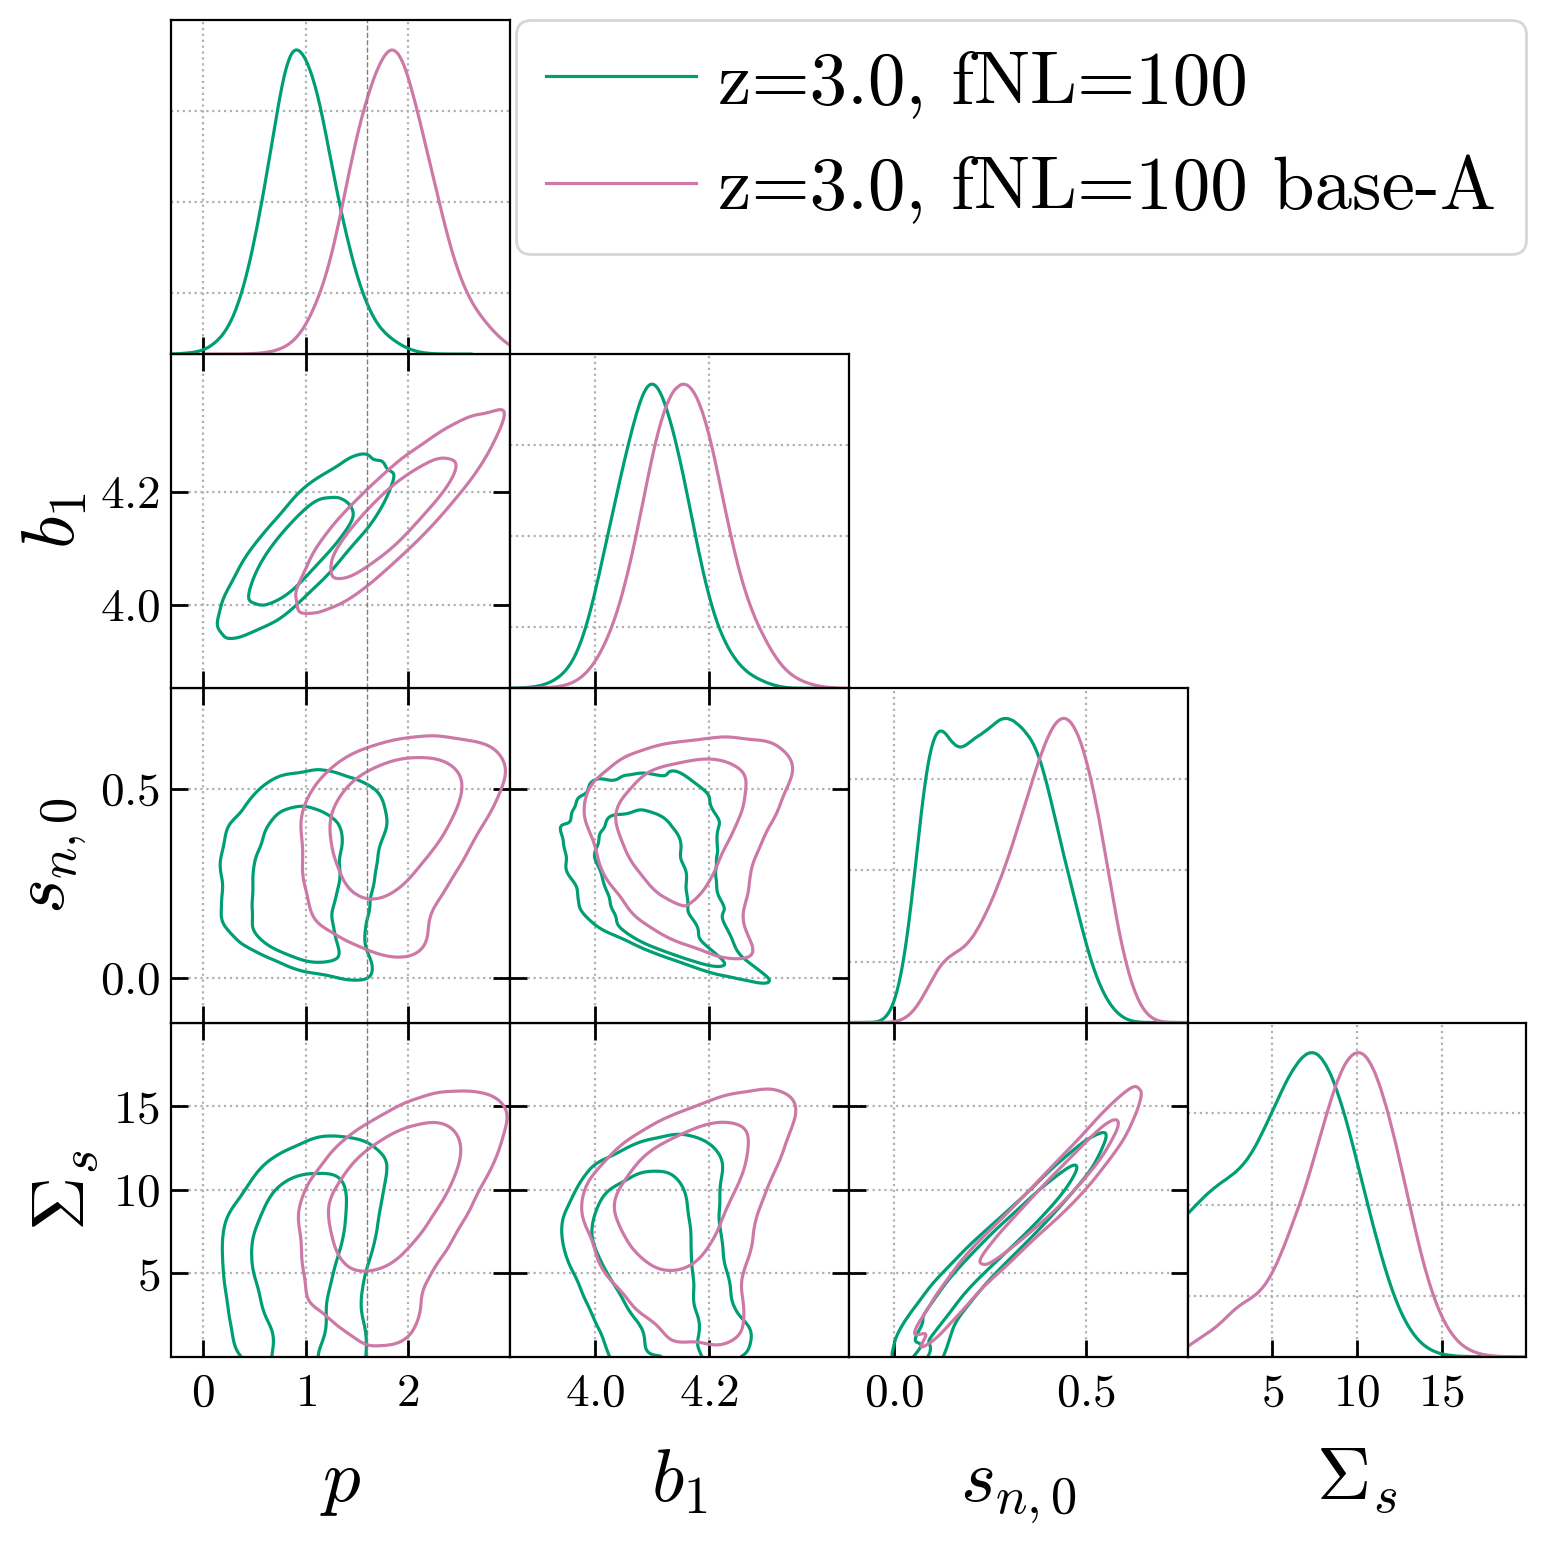
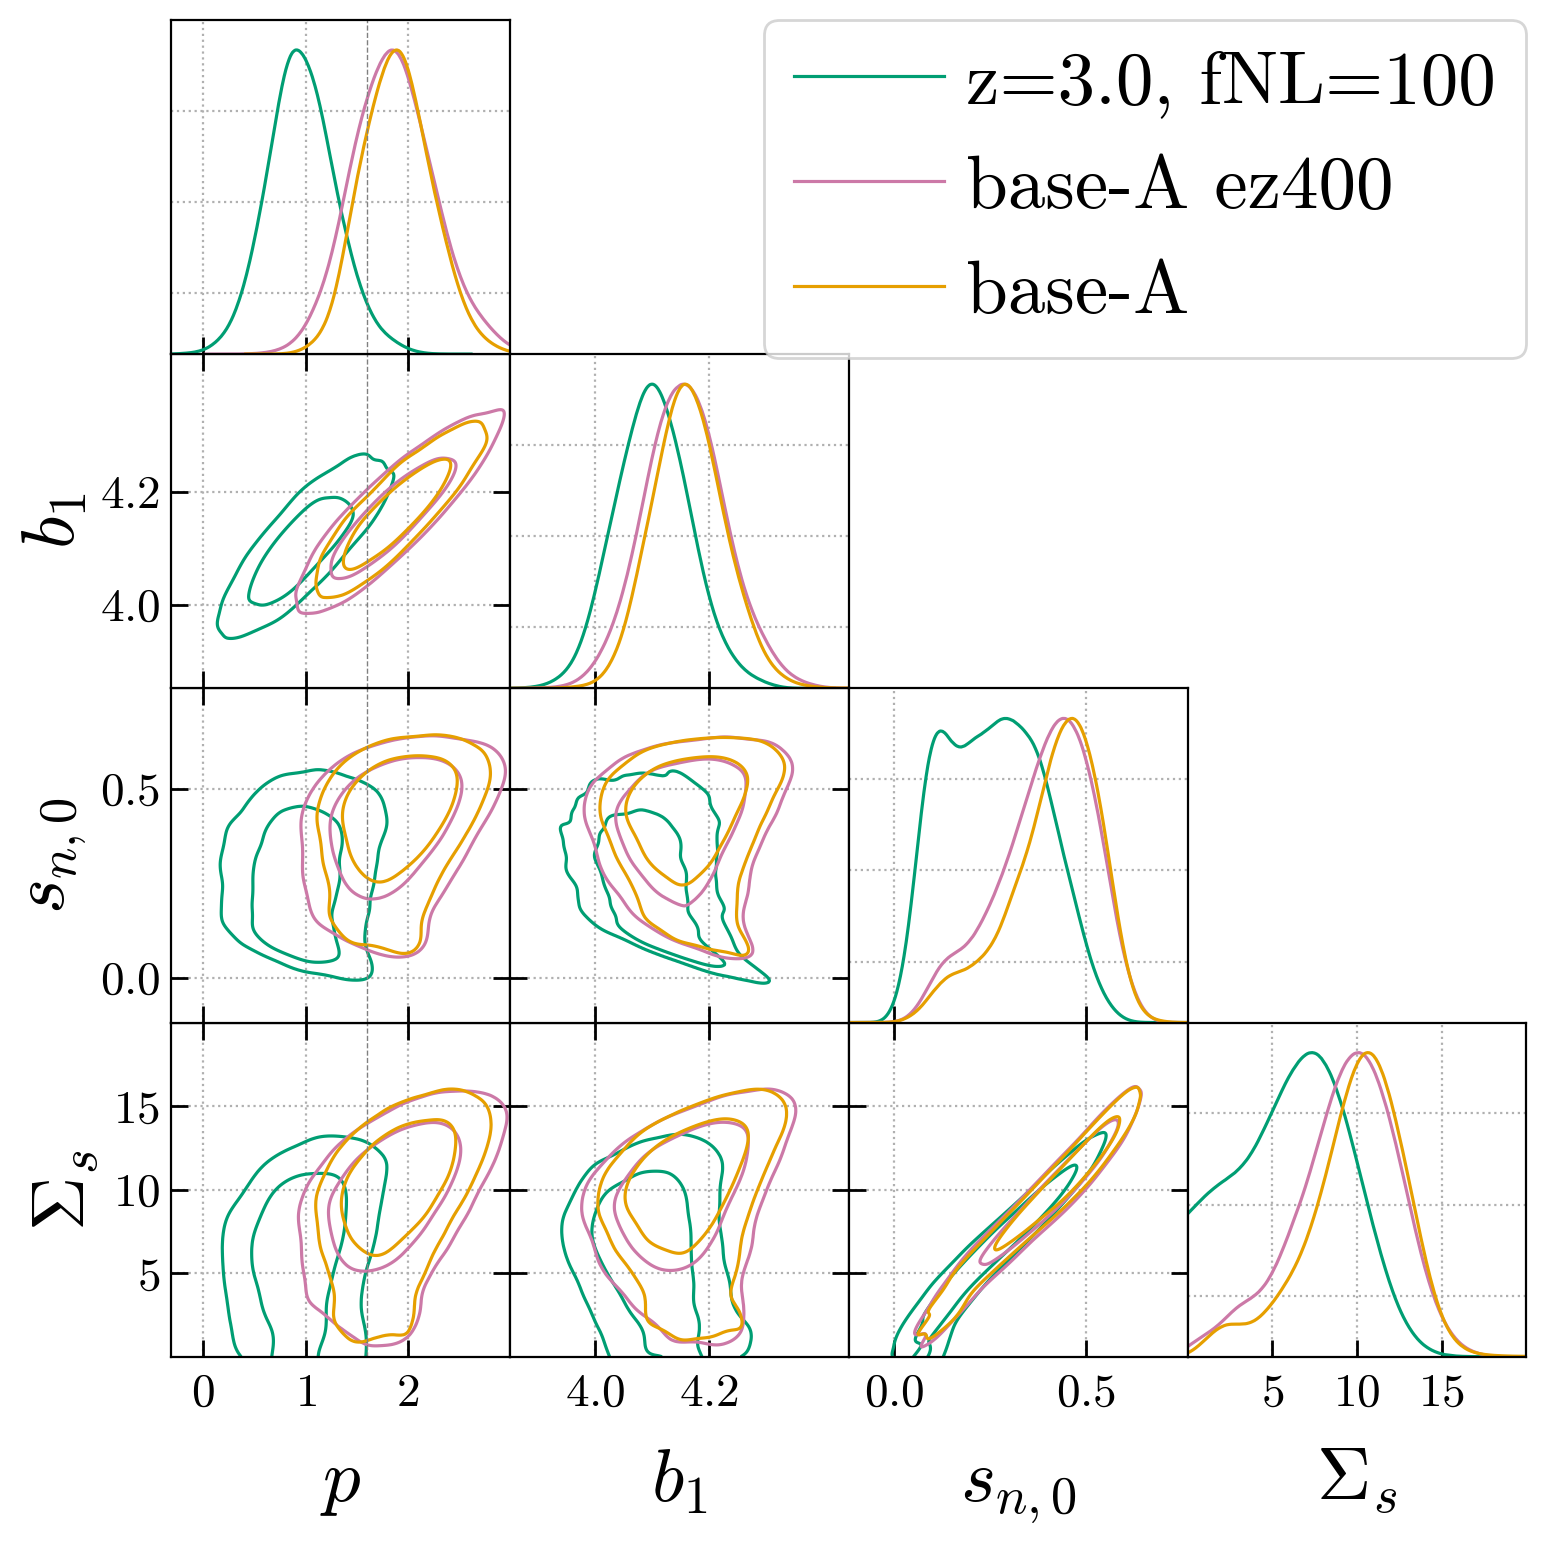
assembly bias asks different fNL in EZmock, generate EZmocks v1.2

diff --git a/mock-data-cov/scripts/plot_ps.py b/mock-data-cov/scripts/plot_ps.py
@@ -3,7 +3,6 @@
 # pypower requires `source /global/common/software/desi/users/adematti/cosmodesi_environment.sh main` on NERSC
 
 import argparse
-import sys
 import numpy as np
 import glob
 from pypower import PowerSpectrumMultipoles
@@ -17,10 +16,12 @@ def parse_args():
     parser = argparse.ArgumentParser(description='Plot power spectra for a redshift bin.')
     parser.add_argument('--tag', type=str, required=True, help='Tag for the mock (e.g., z1, z2, etc.)')
     parser.add_argument('--dirEZmocks', type=str, help='Directory of EZmocks to plot. If empty, skip EZmocks plotting.')
+    parser.add_argument('--base', type=str, help='Base directory for the mocks')
     return parser.parse_args()
 args = parse_args()
 tag = args.tag
 dirEZmocks = args.dirEZmocks if args.dirEZmocks else None
+base = args.base if args.base else 'c302_dv'
 if dirEZmocks is not None:
     if not os.path.exists(dirEZmocks):
         print(f"Warning: dirEZmocks '{dirEZmocks}' not found; skipping EZmocks plotting")
@@ -55,6 +56,15 @@ if dirEZmocks is not None:
     p0_ez_avg = np.mean(p0_ez, axis=0)
     p0_err = np.std(p0_ez, axis=0)
     print(f"Loaded {len(files)} EZmock power spectra from {dirEZmocks}")
+
+# base
+if base == 'c302_dv':
+    P0_base = P0_c302_dv 
+elif base == 'c302_dv_A':
+    P0_base = P0_c302_A_dv
+else:
+    raise ValueError(f"Unknown base: {base}")
+    
 # Plot -------------------------------------------------------------------------
 
 fig, axs = plt.subplots(2,1,constrained_layout=True,sharex='col',figsize=(8,8),gridspec_kw={'height_ratios': [3, 1]})
@@ -66,8 +76,8 @@ if dirEZmocks is not None:
     for p in p0_ez[1:]:
         axs[0].plot(k_ez[1:], p[1:], color='gray', alpha=0.3)
     axs[0].plot(k_ez[1:], p0_ez_avg[1:], color='black', lw=2, label='EZmock average')
-    frac_ez = p0_ez_avg / P0_c302_dv - 1
-    frac_err = p0_err / P0_c302_dv 
+    frac_ez = p0_ez_avg / P0_base - 1
+    frac_err = p0_err / P0_base 
     axs[1].plot(k[1:], frac_ez[1:], color='black', lw=2)
     axs[1].fill_between(k[1:], - frac_err[1:], frac_err[1:], color='gray', alpha=0.5, label=r'EZmock $1\sigma$')    
 # top panel: original spectra
@@ -81,10 +91,12 @@ axs[0].set_ylabel(r'$P_0(k)$ [$(\mathrm{Mpc}/h)^{3}$]')
 axs[0].legend()
 
 # bottom panel: fractional errors (P_variant - P_base) / P_base
-frac_c302 = P0_c302 / P0_c302_dv - 1
-frac_c300_dv = P0_c300_dv / P0_c302_dv - 1
-frac_c302_A_dv = P0_c302_A_dv / P0_c302_dv - 1
+frac_c302_dv = P0_c302_dv / P0_base - 1
+frac_c302 = P0_c302 / P0_base - 1
+frac_c300_dv = P0_c300_dv / P0_base - 1
+frac_c302_A_dv = P0_c302_A_dv / P0_base - 1
 axs[1].axhline(0, color='gray', lw=0.8)
+axs[1].plot(k[1:], frac_c302_dv[1:], color=color[0])
 axs[1].plot(k[1:], frac_c302[1:], '--', color=color[1])
 axs[1].plot(k[1:], frac_c300_dv[1:], ':', color=color[2])
 axs[1].plot(k[1:], frac_c302_A_dv[1:], '-.', color=color[3])
@@ -100,4 +112,4 @@ ylim=0.2
 axs[1].set_ylim(-ylim, ylim)
 axs[1].legend()
 plt.tight_layout()
-plt.savefig(f'out/ps_comparison{tag}.png', dpi=300)
+plt.savefig(f'out/ps_comparison{tag}_{base}.png', dpi=300)

diff --git a/inference/plot_chains/assembly_qso-z6.py b/inference/plot_chains/assembly_qso-z6.py
@@ -6,6 +6,8 @@ color = ["#1b1b1b", "#0072B2", "#D55E00", "#009E73", "#CC79A7", "#E69F00", "#56B
 
 name='QSO-z6_fNL100_base-dv'
 qso_z6_fNL100 = '/pscratch/sd/s/siyizhao/desilike/fit_p/'+name+'/chain_zeus'
+name='QSO-z6_fNL100_base-A-dv_ez400'
+qso_z6_fNL100_base_A_ez400 = '/pscratch/sd/s/siyizhao/desilike/fit_p/'+name+'/chain_zeus'
 name='QSO-z6_fNL100_base-A-dv'
 qso_z6_fNL100_base_A = '/pscratch/sd/s/siyizhao/desilike/fit_p/'+name+'/chain_zeus'
-compare_chain([qso_z6_fNL100, qso_z6_fNL100_base_A], labels=['z=3.0, fNL=100', 'z=3.0, fNL=100 base-A'], markers={'p':1.6}, colors=[color[3], color[4]], fn_out='out/compare_qso-z6_fnl100_base_dv_A.png')
+compare_chain([qso_z6_fNL100, qso_z6_fNL100_base_A_ez400, qso_z6_fNL100_base_A], labels=['z=3.0, fNL=100', 'base-A ez400', 'base-A'], markers={'p':1.6}, colors=[color[3], color[4], color[5]], fn_out='out/compare_qso-z6_fnl100_base_dv_A.png')
